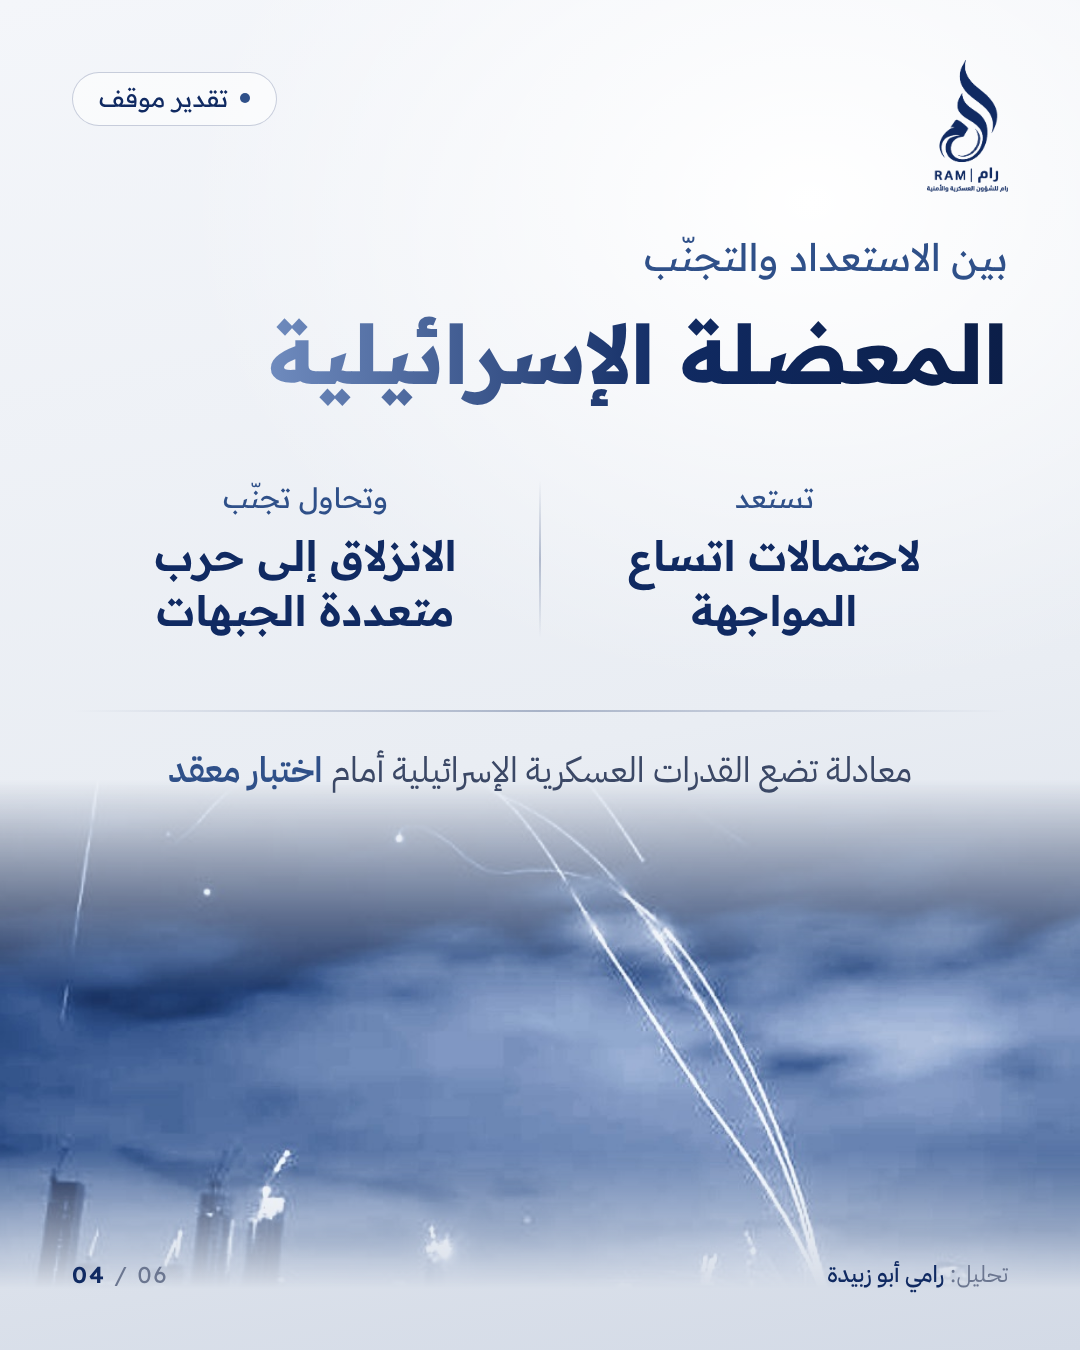
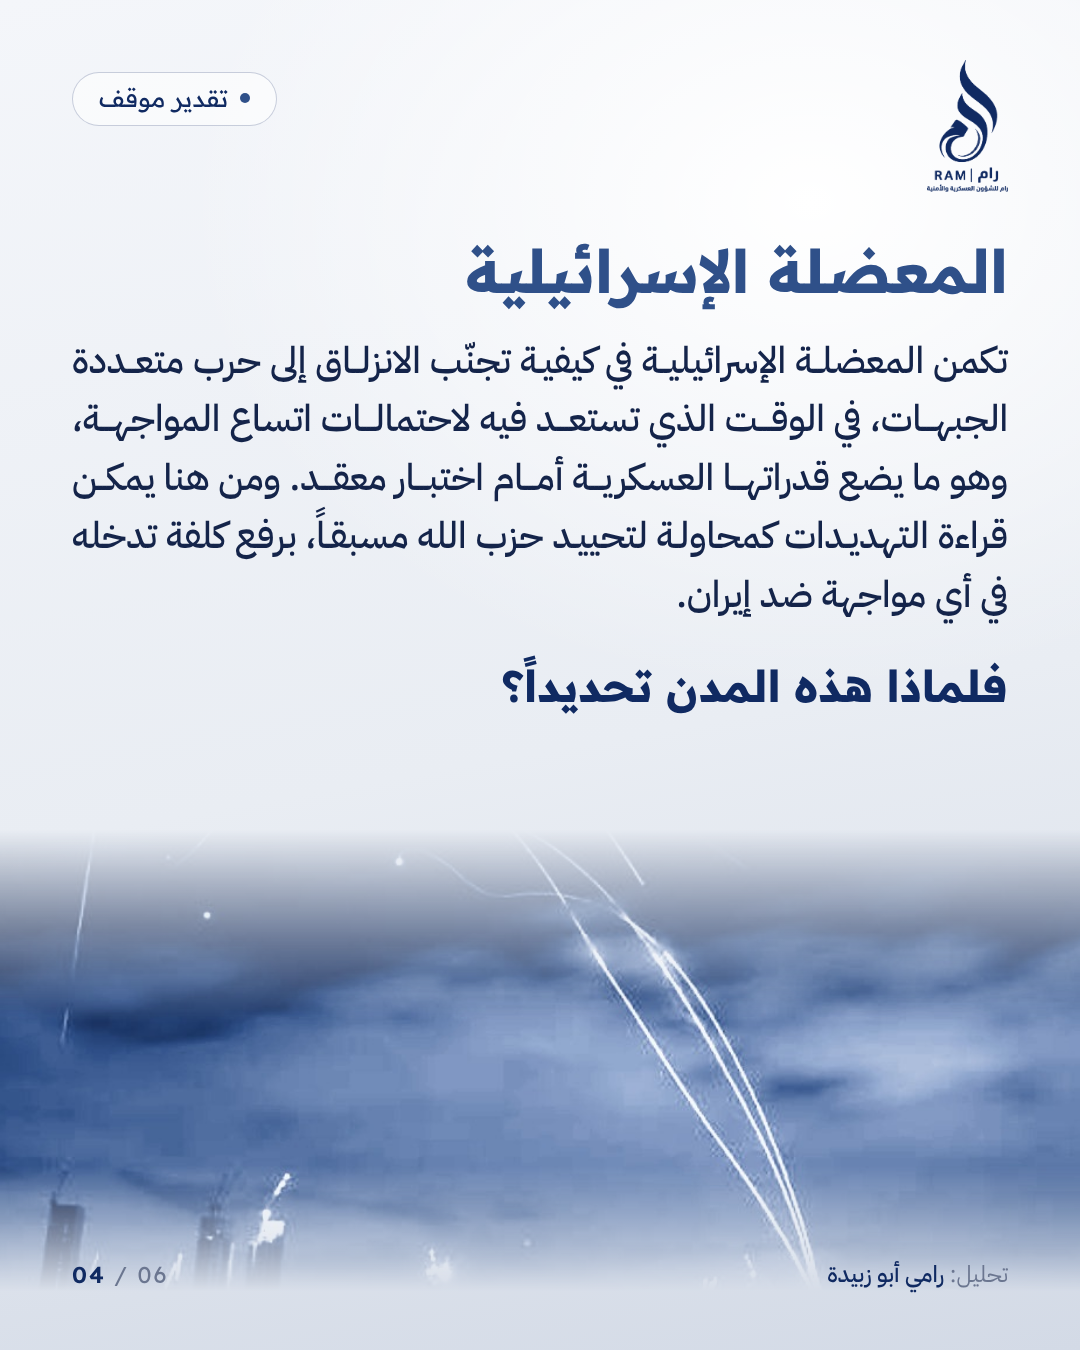
Slides 2-6 as justified paragraphs with kashida, title and lead-in question
Claude-Session: https://claude.ai/code/session_01EW5L56NuYcnMJVgEDoh2db

diff --git a/carousel/carousel.html b/carousel/carousel.html
@@ -102,6 +102,14 @@ body{background:#333;font-family:var(--b);color:#fff;display:flex;flex-direction
 .light .photo{bottom:40px;-webkit-mask:linear-gradient(180deg,transparent 0%,rgba(0,0,0,.5) 20%,#000 40%,#000 70%,transparent 96%);mask:linear-gradient(180deg,transparent 0%,rgba(0,0,0,.5) 20%,#000 40%,#000 70%,transparent 96%)}
 .light .photo::after{display:none}
 .light .dia{box-shadow:0 0 0 7px rgba(47,80,137,.12)}
+
+/* ===== نظام الفقرات ===== */
+.art{position:absolute;right:72px;left:72px;top:232px;z-index:2}
+.atitle{font-family:var(--h);font-weight:700;font-size:60px;line-height:1.3;color:#2F5089;margin-bottom:22px}
+.jp{font-family:var(--b);font-weight:500;font-size:37px;line-height:1.58;color:#14244A}
+.jp .jl{display:block;white-space:nowrap;text-align:justify;text-align-last:justify}
+.jp .jl.last{text-align-last:right}
+.hook{font-family:var(--h);font-weight:700;font-size:44px;color:#102A62;margin-top:34px}
 </style>
 </head>
 <body>
@@ -145,25 +153,15 @@ body{background:#333;font-family:var(--b);color:#fff;display:flex;flex-direction
   </div>
 </section>
 
-<!-- ============ 2. ماذا كشفت معاريف ============ -->
+<!-- ============ 2. ============ -->
 <section class="slide light" id="s2">
-  <div class="photo" style="height:470px;background-image:url(photos/port-light.jpg);background-position:center 60%"></div>
+  <div class="photo" style="height:520px;background-image:url(photos/port-light.jpg);background-position:center 60%"></div>
   <img class="logo" src="assets/logo-navy-full.png" alt="رام">
   <div class="tag"><i></i>تقدير موقف</div>
-
-  <div class="head" style="top:230px">
-    <div class="kicker">خطط جيش الاحتلال للجبهة اللبنانية</div>
-    <div class="title" style="margin-top:10px">ماذا كشفت «معاريف»؟</div>
-  </div>
-
-  <div class="frame" style="top:500px;height:330px"></div>
-  <div style="position:absolute;left:120px;right:120px;top:536px;text-align:center">
-    <div class="p">خطط معدّة لاحتلال مدن في جنوب لبنان،<br>وفرض <b>حصار بحري</b> على أهم موانئه</div>
-  </div>
-  <div class="vs" style="position:absolute;left:72px;right:72px;top:710px">
-    <div><div class="dia"></div><div class="lab" style="margin-top:14px">احتلال مدن</div><div class="p" style="font-size:32px">صور · صيدا · النبطية</div></div>
-    <div class="sep"></div>
-    <div><div class="dia"></div><div class="lab" style="margin-top:14px">حصار بحري</div><div class="p" style="font-size:32px">ميناءا بيروت وطرابلس</div></div>
+  <div class="art">
+    <div class="atitle">ماذا كشفت «معاريف»؟</div>
+    <div class="jp">كشفت صحيفة «معاريف» العبرية أن جيش الاحتلال أعدّ خططاً لاحتلال مدن لبنانية، من بينها صور وصيدا والنبطية، وفرض حصار بحري على ميناءَي بيروت وطرابلس، ما يعكس مستوى متقدماً من الاستعداد العسكري لسيناريوهات تصعيد واسعة قد تمتد إلى الجبهة اللبنانية.</div>
+    <div class="hook">فهل هي خطط للتنفيذ؟</div>
   </div>
   <div class="foot">
     <div>تحليل: <b>رامي أبو زبيدة</b></div>
@@ -171,21 +169,15 @@ body{background:#333;font-family:var(--b);color:#fff;display:flex;flex-direction
   </div>
 </section>
 
-<!-- ============ 3. الخطة لا تعني القرار ============ -->
+<!-- ============ 3. ============ -->
 <section class="slide light" id="s3">
-  <div class="photo" style="height:520px;background-image:url(photos/warroom-light.jpg);background-position:center 30%"></div>
+  <div class="photo" style="height:500px;background-image:url(photos/warroom-light.jpg);background-position:center 30%"></div>
   <img class="logo" src="assets/logo-navy-full.png" alt="رام">
   <div class="tag"><i></i>تقدير موقف</div>
-
-  <div class="head" style="top:230px">
-    <div class="kicker">بين التخطيط والتنفيذ</div>
-    <div class="title" style="margin-top:10px;font-size:74px">الخطة لا تعني قرار الحرب</div>
-  </div>
-
-  <div class="list" style="position:absolute;right:72px;left:110px;top:440px;gap:30px">
-    <div class="li"><div class="dia"></div><div class="p">إعداد الخطط العسكرية <b>لا يعني</b> اتخاذ القرار السياسي والعسكري بتنفيذها</div></div>
-    <div class="li"><div class="dia"></div><div class="p"><b>جاهزية عملياتية</b> واستعداد مسبق لسيناريوهات المواجهة</div></div>
-    <div class="li"><div class="dia"></div><div class="p"><b>أداة ردع</b> للتأثير في حسابات حزب الله، مع تصاعد الحديث عن مواجهة محتملة مع إيران</div></div>
+  <div class="art">
+    <div class="atitle">الخطة لا تعني قرار الحرب</div>
+    <div class="jp">من الضروري التمييز بين إعداد الخطط العسكرية واتخاذ القرار السياسي والعسكري بتنفيذها؛ فهذه التحركات تندرج في إطار الجاهزية العملياتية، وتوظيف التهديد كأداة للردع والتأثير في حسابات حزب الله، في ظل تصاعد الحديث عن مواجهة أميركية إسرائيلية محتملة مع إيران.</div>
+    <div class="hook">فما الذي تخشاه إسرائيل؟</div>
   </div>
   <div class="foot">
     <div>تحليل: <b>رامي أبو زبيدة</b></div>
@@ -193,26 +185,15 @@ body{background:#333;font-family:var(--b);color:#fff;display:flex;flex-direction
   </div>
 </section>
 
-<!-- ============ 4. المعضلة ============ -->
+<!-- ============ 4. ============ -->
 <section class="slide light" id="s4">
-  <div class="photo" style="height:530px;background-image:url(photos/dome-light.jpg);background-position:center 35%"></div>
+  <div class="photo" style="height:480px;background-image:url(photos/dome-light.jpg);background-position:center 40%"></div>
   <img class="logo" src="assets/logo-navy-full.png" alt="رام">
   <div class="tag"><i></i>تقدير موقف</div>
-
-  <div class="head" style="top:230px">
-    <div class="kicker">بين الاستعداد والتجنّب</div>
-    <div class="title" style="margin-top:10px">المعضلة الإسرائيلية</div>
-  </div>
-
-  <div class="vs" style="position:absolute;left:72px;right:72px;top:480px">
-    <div><div class="meta">تستعد</div><div class="lab">لاحتمالات اتساع<br>المواجهة</div></div>
-    <div class="sep"></div>
-    <div><div class="meta">وتحاول تجنّب</div><div class="lab">الانزلاق إلى حرب<br>متعددة الجبهات</div></div>
-  </div>
-
-  <div style="position:absolute;left:72px;right:72px;top:710px;text-align:center">
-    <div style="height:1.5px;background:linear-gradient(90deg,transparent,rgba(16,42,98,.3),transparent);margin-bottom:30px"></div>
-    <div class="p">معادلة تضع القدرات العسكرية الإسرائيلية أمام <b style="color:var(--royal)">اختبار معقد</b></div>
+  <div class="art">
+    <div class="atitle">المعضلة الإسرائيلية</div>
+    <div class="jp">تكمن المعضلة الإسرائيلية في كيفية تجنّب الانزلاق إلى حرب متعددة الجبهات، في الوقت الذي تستعد فيه لاحتمالات اتساع المواجهة، وهو ما يضع قدراتها العسكرية أمام اختبار معقد. ومن هنا يمكن قراءة التهديدات كمحاولة لتحييد حزب الله مسبقاً، برفع كلفة تدخله في أي مواجهة ضد إيران.</div>
+    <div class="hook">فلماذا هذه المدن تحديداً؟</div>
   </div>
   <div class="foot">
     <div>تحليل: <b>رامي أبو زبيدة</b></div>
@@ -220,71 +201,45 @@ body{background:#333;font-family:var(--b);color:#fff;display:flex;flex-direction
   </div>
 </section>
 
-<!-- ============ 5. دلالات الأهداف ============ -->
+<!-- ============ 5. ============ -->
 <section class="slide light" id="s5">
-  <img class="logo" src="assets/logo-navy-full.png" alt="رام">
-  <div class="tag"><i></i>تقدير موقف</div>
-  <div class="head" style="top:230px">
-    <div class="kicker">أبعد من التوغّل الحدودي</div>
-    <div class="title" style="margin-top:10px">دلالات الأهداف</div>
-  </div>
-
-  <svg style="position:absolute;left:0px;top:470px" width="480" height="700" viewBox="-110 -20 520 600">
-    <ellipse cx="150" cy="300" rx="260" ry="260" fill="url(#pglow)" opacity=".25"/>
+  <svg style="position:absolute;left:300px;bottom:70px" width="480" height="500" viewBox="-120 -10 540 560">
+    <ellipse cx="150" cy="300" rx="280" ry="260" fill="url(#pglowL)" opacity=".5"/>
     <use href="#lb" fill="url(#gfillL)" stroke="#2F5089" stroke-width="2.5"/>
-    <g fill="none" stroke="#5D7FB8" stroke-width="2.5" stroke-dasharray="9 8" opacity=".85">
+    <g fill="none" stroke="#5D7FB8" stroke-width="2.5" stroke-dasharray="9 8">
       <path d="M111.9,258 m-110,0 a110,110 0 0 1 110,-110 M111.9,258 m0,110 a110,110 0 0 1 -110,-110"/>
       <path d="M196.5,93 m-100,0 a100,100 0 0 1 100,-80"/>
     </g>
-    <use href="#shipL" x="-62" y="232" width="44" height="44"/>
-    <use href="#shipL" x="44" y="0" width="44" height="44"/>
+    <use href="#shipL" x="-62" y="232" width="44" height="44"/><use href="#shipL" x="44" y="0" width="44" height="44"/>
     <circle cx="37.3" cy="444" r="26" fill="url(#pglowL)"/><circle cx="79.6" cy="357" r="26" fill="url(#pglowL)"/><circle cx="106.9" cy="411" r="26" fill="url(#pglowL)"/>
     <circle cx="37.3" cy="444" r="7" fill="#102A62"/><circle cx="79.6" cy="357" r="7" fill="#102A62"/><circle cx="106.9" cy="411" r="7" fill="#102A62"/>
     <circle cx="111.9" cy="258" r="6" fill="none" stroke="#102A62" stroke-width="2.5"/><circle cx="196.5" cy="93" r="6" fill="none" stroke="#102A62" stroke-width="2.5"/>
     <g font-family="Readex" font-weight="400" font-size="22" fill="#102A62" direction="ltr">
-      <text x="22" y="452" text-anchor="end">صور</text>
-      <text x="64" y="364" text-anchor="end">صيدا</text>
-      <text x="122" y="420" text-anchor="start">النبطية</text>
-      <text x="126" y="266" text-anchor="start">بيروت</text>
-      <text x="212" y="101" text-anchor="start">طرابلس</text>
+      <text x="22" y="452" text-anchor="end">صور</text><text x="64" y="364" text-anchor="end">صيدا</text>
+      <text x="122" y="420" text-anchor="start">النبطية</text><text x="126" y="266" text-anchor="start">بيروت</text><text x="212" y="101" text-anchor="start">طرابلس</text>
     </g>
   </svg>
-
-  <div class="list" style="position:absolute;right:72px;width:540px;top:500px;gap:56px">
-    <div>
-      <div class="meta">التوغّل البرّي</div>
-      <div class="lab" style="margin:6px 0 12px">صور · صيدا · النبطية</div>
-      <div class="p" style="font-size:32px">استعداد لتوسيع العمليات نحو <b>عمق لبنان</b>، لا مجرد توغّل محدود عند الحدود</div>
-    </div>
-    <div style="height:1.5px;background:linear-gradient(to left,rgba(16,42,98,.3),transparent)"></div>
-    <div>
-      <div class="meta">الحصار البحري</div>
-      <div class="lab" style="margin:6px 0 12px">بيروت وطرابلس</div>
-      <div class="p" style="font-size:32px">ضغط على <b>البنية الاقتصادية واللوجستية</b>، لا على قدرات حزب الله العسكرية فقط</div>
-    </div>
+  <img class="logo" src="assets/logo-navy-full.png" alt="رام">
+  <div class="tag"><i></i>تقدير موقف</div>
+  <div class="art">
+    <div class="atitle">دلالات الأهداف</div>
+    <div class="jp">اختيار صور وصيدا والنبطية يتجاوز سيناريوهات التوغّل المحدود في المناطق الحدودية، ليعكس الاستعداد لتوسيع العمليات البرية نحو عمق لبنان. أما التلويح بحصار ميناءَي بيروت وطرابلس، فيشير إلى توسيع الضغط ليشمل البنية الاقتصادية واللوجستية اللبنانية، لا القدرات العسكرية لحزب الله فقط.</div>
+    <div class="hook">فما الرسالة الإسرائيلية؟</div>
   </div>
-
   <div class="foot">
     <div>تحليل: <b>رامي أبو زبيدة</b></div>
     <div class="pg"><em>05</em> / 06</div>
   </div>
 </section>
 
-<!-- ============ 6. الخلاصة ============ -->
+<!-- ============ 6. ============ -->
 <section class="slide light" id="s6">
-  <div class="photo" style="height:480px;background-image:url(photos/border-light.jpg);background-position:center 40%"></div>
+  <div class="photo" style="height:520px;background-image:url(photos/border-light.jpg);background-position:center 40%"></div>
   <img class="logo" src="assets/logo-navy-full.png" alt="رام">
   <div class="tag"><i></i>تقدير موقف</div>
-
-  <div class="head" style="top:230px">
-    <div class="kicker">الخلاصة</div>
-    <div class="title" style="margin-top:10px">معادلة ردع استباقية</div>
-  </div>
-
-  <div class="list" style="position:absolute;right:72px;left:110px;top:480px;gap:34px">
-    <div class="li"><div class="num">01</div><div><div class="meta">الهدف</div><div class="p">منع حزب الله من <b>فتح جبهة إسناد</b> لإيران</div></div></div>
-    <div class="li"><div class="num">02</div><div><div class="meta">الوسيلة</div><div class="p">التلويح بنقل الحرب إلى <b>عمق الأراضي اللبنانية</b></div></div></div>
-    <div class="li"><div class="num">03</div><div><div class="meta">الخيار القائم</div><div class="p">إبقاء <b>الحرب الواسعة</b> حاضرة تحسباً لفشل الردع</div></div></div>
+  <div class="art">
+    <div class="atitle">معادلة ردع استباقية</div>
+    <div class="jp">تتجاوز الرسالة الإسرائيلية التهديد العسكري المباشر إلى محاولة فرض معادلة ردع استباقية، قوامها منع حزب الله من فتح جبهة إسناد لإيران، مع إبقاء خيار الحرب الواسعة على لبنان حاضراً ضمن حسابات الجاهزية الإسرائيلية، تحسباً لفشل الردع واتساع المواجهة إلى أكثر من جبهة.</div>
   </div>
   <div class="foot">
     <div>تحليل: <b>رامي أبو زبيدة</b></div>
@@ -322,6 +277,30 @@ body{background:#333;font-family:var(--b);color:#fff;display:flex;flex-direction
       for(let i=0;i<6;i++){const w=ks.getBoundingClientRect().width;fs*=T/w;ks.style.fontSize=fs+'px';}});
     document.body.dataset.ready=1;}
   document.fonts.ready.then(run);
+
+  // تبرير الفقرات بالكشيدة: تقسيم الأسطر ثم تمديد كل سطر حتى عرض العمود
+  function justifyKashida(el){
+    const W=el.getBoundingClientRect().width, words=el.textContent.trim().split(/\s+/);
+    const m=document.createElement('span');m.style.cssText='position:absolute;visibility:hidden;white-space:nowrap';el.appendChild(m);
+    const lines=[];let cur=[];
+    words.forEach(w=>{m.textContent=[...cur,w].join(' ');if(m.getBoundingClientRect().width>W&&cur.length){lines.push(cur);cur=[w];}else cur.push(w);});
+    if(cur.length)lines.push(cur);m.remove();el.textContent='';
+    lines.forEach((ln,li)=>{const d=document.createElement('span');d.className='jl'+(li==lines.length-1?' last':'');d.textContent=ln.join(' ');el.appendChild(d);
+      if(li==lines.length-1)return;
+      const probe=document.createElement('span');probe.style.cssText='display:inline-block;white-space:nowrap';probe.textContent=d.textContent;d.textContent='';d.appendChild(probe);
+      // مواضع: موضع واحد لكل كلمة طويلة (بعد حرف متصل)
+      let base=ln.slice(), cands=[];
+      base.forEach((w,wi)=>{for(let i=w.length-2;i>=1;i--){if(CONNECT.test(w[i])&&AR.test(w[i+1])){cands.push({wi,i,len:w.length});break;}}});
+      cands.sort((a,b)=>b.len-a.len);cands=cands.slice(0,Math.max(2,Math.ceil(cands.length*.6)));
+      const cnt=cands.map(()=>0);let k=0,g=0;
+      const build=()=>base.map((w,wi)=>{let t=w;cands.forEach((c,ci)=>{if(c.wi===wi&&cnt[ci])t=t.slice(0,c.i+1)+'ـ'.repeat(cnt[ci])+t.slice(c.i+1);});return t;}).join(' ');
+      const step=()=>probe.getBoundingClientRect().width;
+      while(cands.length&&g++<60){const i=k%cands.length;if(cnt[i]>=4)break;cnt[i]++;k++;probe.textContent=build();if(step()>W){cnt[i]--;probe.textContent=build();break;}}
+      d.textContent=probe.textContent;
+    });
+  }
+  document.fonts.ready.then(()=>document.querySelectorAll('.jp').forEach(justifyKashida));
+
 })();
 </script>
 </body>
